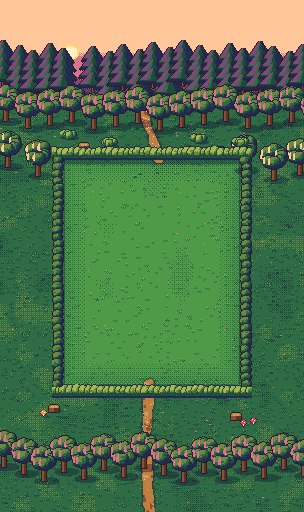
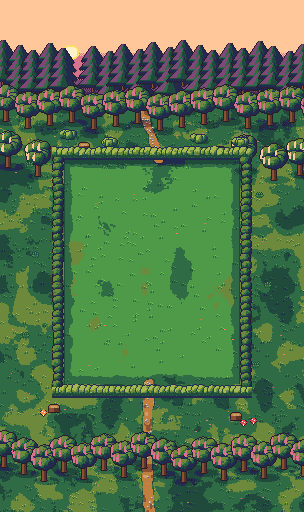
[C] v2.5 CR2: calmer clustered ground, cleaner paths, arena ramp and bridge paving (no dither specks)
Claude-Session: https://claude.ai/code/session_011zCFYQCUMyXvVY6m2szGHz

diff --git a/tools/pixel/art_world.py b/tools/pixel/art_world.py
@@ -60,6 +60,9 @@ DARKER = {
     "steel": "steel_d", "steel_d": "iron", "iron": "ink", "peach": "rose", "rose": "dusk", "dusk": "plum",
     "pink": "rose", "red": "red_d", "red_d": "plum", "lilac": "violet", "violet": "plum", "plum": "ink",
     "yellow": "gold_l", "orange": "gold_d", "ink": "ink",
+    "spring": "leaf", "grass": "leaf_d", "teal": "forest_d", "deep": "night_d", "sand": "dirt", "haze": "sky_l",
+    "azure": "sky", "slate": "ink", "fog": "ash", "ash": "slate", "amber": "orange", "coral": "red",
+    "wine": "plum", "umber": "ink", "navy": "ink",
 }
 LIGHTER = {
     "night_d": "night", "night": "water_d", "water_d": "water", "water": "sky", "sky": "sky_l",
@@ -70,6 +73,9 @@ LIGHTER = {
     "steel": "steel_l", "steel_l": "white", "dusk": "rose", "rose": "pink", "pink": "peach",
     "peach": "cream", "plum": "violet", "violet": "lilac", "lilac": "white", "red_d": "red",
     "red": "pink", "orange": "yellow", "yellow": "white", "white": "white", "ink": "plum",
+    "grass": "leaf", "spring": "leaf_l", "teal": "grass", "deep": "teal", "sand": "cream", "haze": "white",
+    "azure": "sky_l", "slate": "ash", "ash": "fog", "fog": "white", "amber": "yellow", "coral": "pink",
+    "wine": "red_d", "umber": "brown_d", "navy": "night_d",
 }
 _NAME_BY_RGB = {rgba(n)[:3]: n for n, _ in PALETTE}
 
@@ -189,33 +195,59 @@ def bayer(x: int, y: int) -> float:
     return (BAYER4[y % 4][x % 4] + 0.5) / 16.0
 
 
+def _cluster(x: int, y: int, seed: int) -> float:
+    """2x2-cell jitter in [-0.5, 0.5], staggered per row pair: breaks smooth contours into pixel clusters."""
+    cy = y // 2
+    return hash01((x + (cy % 2)) // 2, cy, seed) - 0.5
+
+
+GRASS_TUFTS = [   # (dx, dy, tone) tone: -1 darker, +1 lighter; drawn upward from the base
+    [(0, 0, -1), (0, -1, -1), (2, 0, -1), (2, -1, -1), (2, -2, 1), (4, 0, -1), (4, -1, 1)],
+    [(0, 0, -1), (1, -1, -1), (1, -2, 1), (3, 0, -1), (3, -1, 1)],
+    [(0, 0, -1), (0, -1, 1), (2, 0, -1), (2, -1, -1), (3, -2, 1)],
+    [(0, 0, -1), (1, 0, -1), (1, -1, -1), (2, -2, 1), (3, 0, -1), (3, -1, -1)],
+]
+
+
 def paint_ground(img: Canvas, rect: tuple[int, int, int, int], ramp: tuple[str, str, str], seed: int,
                  scale: float = 30.0, lo: float = 0.36, hi: float = 0.6, tufts: float = 0.35,
                  sparkle: float = 0.04, mask=None, max_light: float = 0.3, max_dark: float = 0.3) -> None:
-    """Grass-like ground: mid colour with soft ordered-dither dark/light zones, tufts and highlights.
+    """Grass-like ground (v2.5 CR2): large soft patches of the three ramp tones with clustered,
+    organic edges (no ordered dithering, no single-pixel specks), then sparse hand-shaped grass tufts.
 
-    ramp = (dark, mid, light). Zones never exceed max_light / max_dark pixel density, so the
-    ground stays calm (no camouflage blobs). mask(x, y) -> bool limits the area.
+    ramp = (dark, mid, light). max_light / max_dark set how much of the area the light / dark patches
+    may cover (smaller = calmer). mask(x, y) -> bool limits the area. `sparkle` is kept for callers but
+    no longer scatters single pixels.
     """
     dark, mid, light = ramp
     x0, y0, x1, y1 = rect
+    hi_t = hi + (0.3 - max_light) * 0.45
+    lo_t = lo - (0.3 - max_dark) * 0.45
     for y in range(y0, y1):
         for x in range(x0, x1):
             if mask is not None and not mask(x, y):
                 continue
-            n = fbm(x, y, seed, scale)
-            b = bayer(x, y)
+            n = fbm(x, y, seed, scale) + _cluster(x, y, seed) * 0.05
             col = mid
-            if n > hi and min(1.0, (n - hi) / 0.12) * max_light > b:
+            if n > hi_t:
                 col = light
-            elif n < lo and min(1.0, (lo - n) / 0.12) * max_dark > b:
+            elif n < lo_t:
                 col = dark
             img.set(x, y, col)
+    # lone pixels follow their neighbours
+    for y in range(y0 + 1, y1 - 1):
+        for x in range(x0 + 1, x1 - 1):
+            if mask is not None and not mask(x, y):
+                continue
+            c = img.get(x, y)
+            nb = [img.get(x + 1, y), img.get(x - 1, y), img.get(x, y + 1), img.get(x, y - 1)]
+            if c not in nb and nb.count(nb[0]) >= 3:
+                img.set(x, y, nb[0])
     rng = random.Random(seed * 7 + 1)
-    step = 5
+    step = 7
     for gy in range(y0, y1, step):
         for gx in range(x0, x1, step):
-            if rng.random() >= tufts:
+            if rng.random() >= tufts * 0.8:
                 continue
             tx, ty = gx + rng.randrange(step), gy + rng.randrange(step)
             if mask is not None and not mask(tx, ty):
@@ -223,16 +255,12 @@ def paint_ground(img: Canvas, rect: tuple[int, int, int, int], ramp: tuple[str, 
             base = name_at(img, tx, ty)
             if base is None:
                 continue
-            dcol = DARKER.get(base, base)
-            for (dx, dy) in rng.choice(TUFTS):
-                if (mask is None or mask(tx + dx, ty + dy)) and x0 <= tx + dx < x1 and y0 <= ty + dy < y1:
-                    img.set(tx + dx, ty + dy, dcol)
-            if rng.random() < 0.35 and (mask is None or mask(tx + 1, ty - 1)):
-                img.set(tx + 1, ty - 1, LIGHTER.get(base, base))
-    for _ in range(int((x1 - x0) * (y1 - y0) * sparkle / 25)):
-        x, y = rng.randrange(x0, x1), rng.randrange(y0, y1)
-        if mask is None or mask(x, y):
-            shade(img, x, y, 1)
+            for (dx, dy, tone) in rng.choice(GRASS_TUFTS):
+                px, py = tx + dx, ty + dy
+                if (mask is None or mask(px, py)) and x0 <= px < x1 and y0 <= py < y1:
+                    b = name_at(img, px, py) or base
+                    img.set(px, py, DARKER.get(b, b) if tone < 0 else LIGHTER.get(b, b))
+    _ = sparkle
 
 
 def paint_path(img: Canvas, points: list[tuple[float, float]], width: float, seed: int,
@@ -262,7 +290,7 @@ def paint_path(img: Canvas, points: list[tuple[float, float]], width: float, see
             if d < half - 1:
                 n = fbm(x, y, seed + 5, 7, 2)
                 img.set(x, y, light if n > 0.66 else (dark if n < 0.3 else mid))
-            elif d < half or (d < half + 1 and (x + y) % 2 == 0):
+            elif d < half + _cluster(x, y, seed + 9) * 1.2:
                 if edge_dark:
                     shade(img, x, y, -1)
                 else:
@@ -274,9 +302,10 @@ def paint_path(img: Canvas, points: list[tuple[float, float]], width: float, see
         f = t * (len(points) - 1) - k
         px = ax + (bx - ax) * f + rng.uniform(-width / 2 + 1, width / 2 - 1)
         py = ay + (by - ay) * f + rng.uniform(-width / 2 + 1, width / 2 - 1)
-        img.set(int(px), int(py), rng.choice(["stone_l", "stone", "gold_l"]))
-        if rng.random() < 0.4:
-            img.set(int(px) + 1, int(py), "stone")
+        img.set(int(px), int(py), "stone_l")
+        img.set(int(px) + 1, int(py), "stone")
+        img.set(int(px), int(py) + 1, "stone_d")
+        img.set(int(px) + 1, int(py) + 1, "stone_d")
 
 
 # --------------------------------------------------------------------------
@@ -1026,6 +1055,8 @@ def in_arena(x: int, y: int) -> bool:
 
 
 GREEN = ("leaf_d", "leaf", "leaf_l")
+# v2.5: the arena floor uses a closer, calmer ramp so actors and telegraphs always read first
+ARENA_GREEN = ("grass", "leaf", "spring")
 # arena ground: very soft variation so actors and telegraphs always read first
 CALM = {"max_light": 0.16, "max_dark": 0.16}
 TREE_GREEN = ("forest", "leaf_d", "leaf", "leaf_l")
@@ -1035,7 +1066,7 @@ def arena_edge_shadow(img: Canvas, depth: int = 4, sides: bool = True) -> None:
     """Darken the arena just below the top border (the hedge casts a shadow) and a 1 px rim at the sides."""
     for y in range(AY0, AY0 + depth):
         for x in range(AX0, AX1):
-            if y < AY0 + depth - 1 or (x + y) % 2 == 0:
+            if y < AY0 + depth - 1 + (_cluster(x, y, 5) > 0.1):
                 shade(img, x, y, -1)
     if sides:
         for y in range(AY0, AY1):
@@ -1048,7 +1079,7 @@ def arena_vignette(img: Canvas, depth: int = 14, density: float = 0.28) -> None:
     for y in range(AY0, AY1):
         for x in range(AX0, AX1):
             d = min(x - AX0, AX1 - 1 - x, y - AY0, AY1 - 1 - y)
-            if d < depth and (1 - d / depth) * density > bayer(x, y):
+            if d < depth * density * 0.7 + (fbm(x, y, 77, 10, 2) - 0.5) * 6 + _cluster(x, y, 78):
                 shade(img, x, y, -1)
 
 
@@ -1074,7 +1105,7 @@ def scene_sword_stone() -> Scene:
     img = sc.img
     paint_ground(img, (0, 0, IMG_W, IMG_H), GREEN, 11, tufts=0.45)
     # arena: calmer, slightly lighter grass
-    paint_ground(img, (AX0, AY0, AX1, AY1), GREEN, 12, scale=34, lo=0.3, hi=0.66, tufts=0.22, sparkle=0.02,
+    paint_ground(img, (AX0, AY0, AX1, AY1), ARENA_GREEN, 12, scale=34, lo=0.3, hi=0.66, tufts=0.22, sparkle=0.02,
                  **CALM)
     # a worn path from the bottom up to the stone
     paint_path(img, [(150, 520), (146, 440), (156, 400), (152, 384)], 14, 5)
@@ -1131,7 +1162,7 @@ def scene_wheat_field() -> Scene:
     paint_ground(img, (0, 0, IMG_W, IMG_H), ("gold_d", "gold", "gold_l"), 21, scale=20, lo=0.4, hi=0.62,
                  tufts=0.9, sparkle=0.1)
     # arena: warm green clearing
-    paint_ground(img, (AX0, AY0, AX1, AY1), GREEN, 22, scale=32, lo=0.3, hi=0.66,
+    paint_ground(img, (AX0, AY0, AX1, AY1), ARENA_GREEN, 22, scale=32, lo=0.3, hi=0.66,
                  tufts=0.25, sparkle=0.02, **CALM)
     arena_vignette(img)
     # cart tracks (two ruts) through the field and the clearing
@@ -1182,7 +1213,7 @@ def scene_meadow() -> Scene:
     sc = Scene("leaf_d")
     img = sc.img
     paint_ground(img, (0, 0, IMG_W, IMG_H), GREEN, 31, tufts=0.5)
-    paint_ground(img, (AX0, AY0, AX1, AY1), GREEN, 32, scale=34, lo=0.28, hi=0.68, tufts=0.22, sparkle=0.02,
+    paint_ground(img, (AX0, AY0, AX1, AY1), ARENA_GREEN, 32, scale=34, lo=0.28, hi=0.68, tufts=0.22, sparkle=0.02,
                  **CALM)
     sprinkle_flowers(img, (0, 0, IMG_W, IMG_H), 220, 33, ["white", "yellow", "pink", "lilac"],
                      mask=lambda x, y: not in_arena(x, y))
@@ -1440,7 +1471,7 @@ def scene_bridge() -> Scene:
         x = -rng2.randrange(0, 16)
         while x < IMG_W:
             wid = rng2.randrange(11, 22)
-            tone = rng2.choice(["stone_l", "stone_l", "stone_l", "stone"])
+            tone = rng2.choice(["stone_l", "stone_l", "stone", "stone"])
             for yy in range(y, y + hgt):
                 for xx in range(x, x + wid):
                     if not on_deck(xx, yy):
@@ -1448,12 +1479,13 @@ def scene_bridge() -> Scene:
                     if yy == y + hgt - 1 or xx == x + wid - 1:
                         col = "stone_d"
                     elif yy == y or xx == x:
-                        col = LIGHTER[tone] if tone == "stone" else ("white" if hash01(xx, yy, 66) > 0.8 else tone)
-                    elif yy == y + hgt - 2 or xx == x + wid - 2:
-                        col = DARKER[tone] if bayer(xx, yy) < 0.5 else tone
+                        col = "stone_l"
+                    elif yy == y + hgt - 2:
+                        col = DARKER[tone] if tone == "stone_l" else tone
                     else:
                         col = tone
-                        if bayer(xx, yy) < 0.12 and hash01(xx // 3, yy // 3, 67) > 0.5:
+                        # worn 2x2 spots, never single specks
+                        if hash01(xx // 2, yy // 2, 67) > 0.95:
                             col = DARKER[tone]
                     img.set(xx, yy, col)
             if rng2.random() < 0.18:
